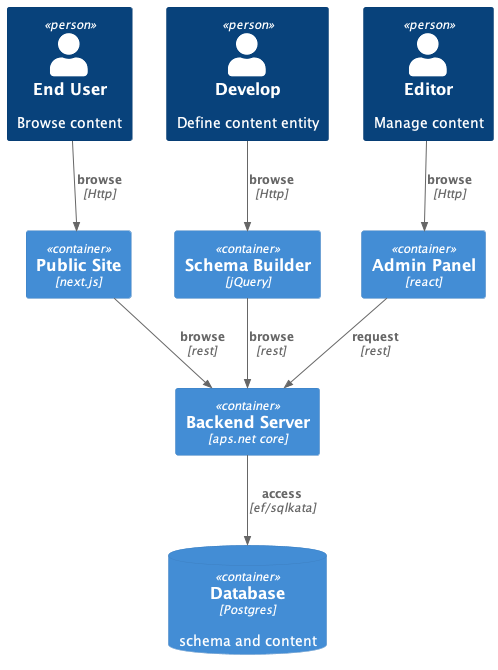
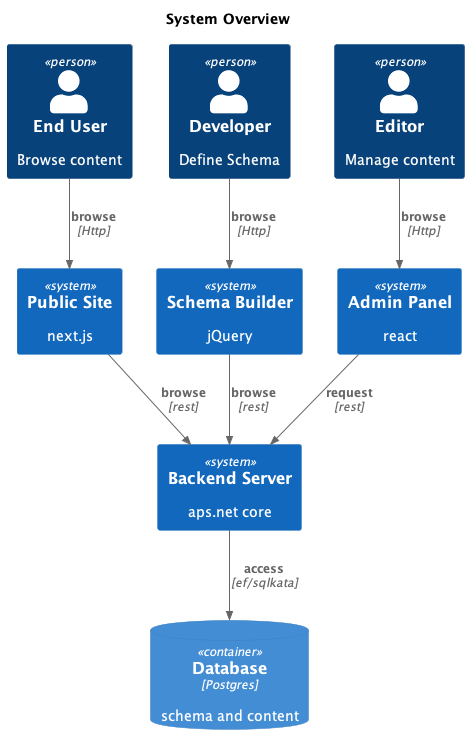
add Development Guide

Changed region(s): [[0.0, 0.0, 1.0, 0.9851]]

diff --git a/server/FluentCMS/Controllers/EntitiesController.cs b/server/FluentCMS/Controllers/EntitiesController.cs
@@ -11,7 +11,7 @@ namespace FluentCMS.Controllers;
 public class EntitiesController(IEntityService entityService) : ControllerBase
 {
     [HttpGet("{entityName}")]
-    public async Task<ActionResult<ListResult>> Get(string entityName,[FromQuery] Pagination? pagination)
+    public async Task<ActionResult<ListResult>> List(string entityName,[FromQuery] Pagination? pagination)
     {
         var qs = QueryHelpers.ParseQuery(HttpContext.Request.QueryString.Value);
         var sorts = new Sorts(qs);
@@ -21,7 +21,7 @@ public class EntitiesController(IEntityService entityService) : ControllerBase
     }
 
     [HttpGet("{entityName}/{id}")]
-    public async Task<ActionResult<Record>> Get(string entityName, string id)
+    public async Task<ActionResult<Record>> One(string entityName, string id)
     {
         var items = await entityService.One(entityName, id);
         return items is null ? NotFound() : Ok(items);

diff --git a/doc/Development.md b/doc/Development.md
@@ -1,15 +1,138 @@
 
 ## System Overviews
 ![overview.png](diagrams%2Foverview.png)
-    
+- Web Server: [FluentCMS](..%2Fserver%2FFluentCMS)
+- Admin Panel Client: [admin-ui](..%2Fadmin-ui)
+- Schema Builder: [schema-ui](..%2Fserver%2FFluentCMS%2Fwwwroot%2Fschema-ui)
+- Demo Publish Site: [ui](..%2Fui)
 ## Server
-Startup project /fluent-cms/server/FluentCMS/FluentCMS.csproj
+- Startup project:  [FluentCMS](..%2Fserver%2FFluentCMS)
+- Tools
+  - Asp.net core
+  - Entity framework core
+  - SqlKata(https://sqlkata.com/), it using Dapper(https://www.learndapper.com/) behind the scene.
+
+The design of the API Server offers several advantages, primarily revolving around modularity, scalability, maintainability, and separation of concerns. 
+
+### Controllers and Services 
+![api-controller-service.png](diagrams%2Fapi-controller-service.png)  
+The diagram illustrates the architecture of an API server with the following components:
+
+1. **External Clients**:
+  - `Schema Builder`: jQuery-based interface for schema management.
+  - `Admin Panel`: React-based interface for administrative tasks.
+  - `Public Site`: Next.js-based interface for public-facing interactions.
+
+2. **Controllers**:
+  - `Schema Controller`: Manages schema CRUD operations.
+  - `Entity Controller`: Manages entity CRUD operations.
+  - `View Controller`: Provides APIs for public site interactions.
+
+3. **Services**:
+  - `Schema Service`: Handles business logic for schema CRUD operations.
+  - `Entity Service`: Handles business logic for entity CRUD operations.
+  - `View Service`: Handles business logic for public site APIs.
+
+4. **Database**:
+  - Uses Database for storing schema and content.
+
+### Purpose of This Design
+
+1. **Modularity**:
+  - Each component (Schema Builder, Admin Panel, Public Site) operates independently, allowing for focused development and easier debugging.
+  - Controllers and services are separated, ensuring that changes in one area do not directly affect others.
+
+2. **Maintainability**:
+  - Changes in one module (e.g., adding a new feature to the Admin Panel) do not necessitate changes in others (e.g., the Public Site).
+  - Well-defined interfaces between components (e.g., HTTP/JSON) make it easier to update and extend the system.
+
+3. **Reusability**:
+  - The same services can be used by different controllers, promoting code reuse. For instance, both the Admin Panel and Schema Builder use the `Schema Controller`.
+
+4. **Database Interaction**:
+  - The use of ORM (Entity Framework for `Schema Service`) and direct SQL libraries (SqlKate for `Entity Service` and `View Service`) provides flexibility in database interaction methods, optimizing for both simplicity and performance.
+
+### Detailed Interaction Flow
+
+1. **Schema Management**:
+  - The `Schema Builder` and `Admin Panel` send requests to the `Schema Controller` for schema management.
+  - The `Schema Controller` delegates these requests to the `Schema Service`, which interacts with the database using Entity Framework.
+
+2. **Entity Management**:
+  - The `Admin Panel` sends entity management requests to the `Entity Controller`.
+  - The `Entity Controller` forwards these requests to the `Entity Service`, which interacts with the database using SqlKate.
+
+3. **Public Site Interactions**:
+  - The `Public Site` sends requests to the `View Controller`.
+  - The `View Controller` forwards these requests to the `View Service`, which also interacts with the database using SqlKate.
 
 
+### Query Builder 
+The Query Builder pattern offers several advantages, which can be illustrated using the given UML diagram of the `/api/entities/[entityName]? [pagination] [filter] [sort]` endpoint. Here's a detailed explanation:
 
-- asp.net core
-- entity framework core
-- sqlkata, it using dapper ORM behind the scene(https://sqlkata.com/)
+#### UML Diagram Overview
 
-Both entity framework and sqlkata can abstract query from specific Database dialect, so I extract database access to
-another layer, currently fluent-cms support postgres sql, it can easily support SQL Server and MySQL in the future.
+The UML diagram describes the interaction between various components for handling an entity-based query with pagination, filtering, and sorting:
+![api-query-sequence.png](diagrams%2Fapi-query-sequence.png)
+1. **Entity Controller**: Handles incoming API requests.
+2. **Entity Service**: Manages the business logic for entities.
+3. **Schema Service**: Provides schema definitions for entities.
+4. **Query Builder**: Composed of `Entity`, `Filters`, `Sorts`, and `Pagination`.
+5. **Executor**: Executes the query against the database.
+6. **Database**: Stores the schema and content.
+
+#### Advantages of Query Builder
+
+1. **Abstraction and Reusability**:
+  - The `Query Builder` abstracts the complexities of query creation. Components like `Filters`, `Sorts`, and `Pagination` can be reused across different parts of the application, promoting DRY (Don't Repeat Yourself) principles.
+
+2. **Dynamic Query Generation**:
+  - With the `Query Builder`, queries are dynamically generated based on the schema definitions provided by the `Schema Service`. This allows for flexible and adaptable query creation without hardcoding.
+
+3. **Simplified API Design**:
+  - The endpoint `/api/entities/[entityName]? [pagination] [filter] [sort]` becomes more versatile. Users can retrieve data with varying conditions by simply adjusting URL parameters.
+
+4. **Separation of Concerns**:
+  - The architecture separates concerns effectively. The `Entity Controller` handles HTTP requests, `Entity Service` manages business logic, and the `Query Builder` constructs queries. This separation enhances maintainability and scalability.
+
+5. **Performance Optimization**:
+  - Pagination and filtering reduce the amount of data processed and transferred, improving performance. The `Query Builder` ensures that only the necessary data is retrieved from the database.
+
+6. **Maintainability and Extensibility**:
+  - Adding new filters, sorts, or pagination logic can be done by extending the respective components without altering the core functionality. This modularity simplifies maintenance and future enhancements.
+
+#### Detailed Interaction Flow
+
+1. **Request Handling**:
+  - The `Entity Controller` receives a request with pagination, filters, and sorts parameters.
+
+2. **Component Initialization**:
+  - The controller initializes `Pagination`, `Filters`, and `Sorts` components based on URL parameters.
+
+3. **Service Interaction**:
+  - The controller invokes the `Entity Service` to list entities with the provided parameters.
+
+4. **Schema Retrieval**:
+  - The `Entity Service` queries the `Schema Service` to get the entity schema.
+
+5. **Query Building**:
+  - The `Entity Service` uses the schema to build a query. It applies pagination, filters, and sorts through the respective components in the `Query Builder`.
+
+6. **Query Execution**:
+  - The built query (KateQuery) is passed to the `Executor`, which interacts with the `Database` to fetch the results.
+
+7. **Result Aggregation**:
+  - The `Entity Service` counts the total number of filtered entities and returns the items and total count to the `Entity Controller`.
+
+8. **Response**:
+  - The `Entity Controller` sends the response to the client with the requested data and pagination details.
+### Databases
+- Fluent CMS supports PostgreSQL and SQLite:
+  - SQLite: Simplifies the setup of a development environment. Users can clone the repository and start the server with zero configuration.
+  - PostgreSQL: Facilitates performance comparison with other CMSs.
+- **Supporting More Databases:**
+  - Entity Framework and SqlKata provide an abstraction layer over specific database drivers.
+  - To support a new database, implementations of the following interfaces are required
+    - [IDefinitionExecutor.cs](..%2Fserver%2FUtils%2FDataDefinitionExecutor%2FIDefinitionExecutor.cs)
+    - [IKateProvider.cs](..%2Fserver%2FUtils%2FKateQueryExecutor%2FIKateProvider.cs)
+  - Upcoming Support: Plans to add support for MS SQL Server and MySQL/MariaDB.

diff --git a/readme.md b/readme.md
@@ -45,15 +45,10 @@ By the end of this tutorials, you have:
 1. An admin panel to manage blog content.
 2. REST APIs for mobile and web clients.    
 [quick-start-guid.md](doc%2Fquick-start-guid.md)
-## System overview
-![img.png](doc/diagrams/overview.png)    
-
-
-## Server
-- asp.net core
-- entity framework core
-- sqlkata, it using dapper ORM behind the scene(https://sqlkata.com/)
-
-Both entity framework and sqlkata can abstract query from specific Database dialect, so I extract database access to
-another layer, currently fluent-cms support postgres sql, it can easily support SQL Server and MySQL in the future. 
-
+## Development
+![overview.png](diagrams%2Foverview.png)
+- Web Server: [FluentCMS](..%2Fserver%2FFluentCMS)
+- Admin Panel Client: [admin-ui](..%2Fadmin-ui)
+- Schema Builder: [schema-ui](..%2Fserver%2FFluentCMS%2Fwwwroot%2Fschema-ui)
+- Demo Publish Site: [ui](..%2Fui)
+- detailed in [Development.md](doc%2FDevelopment.md)